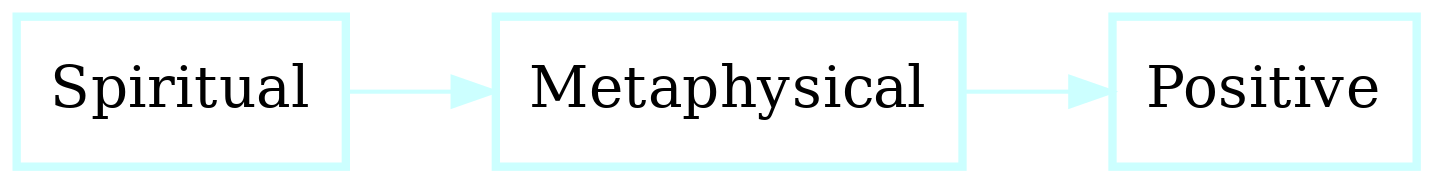
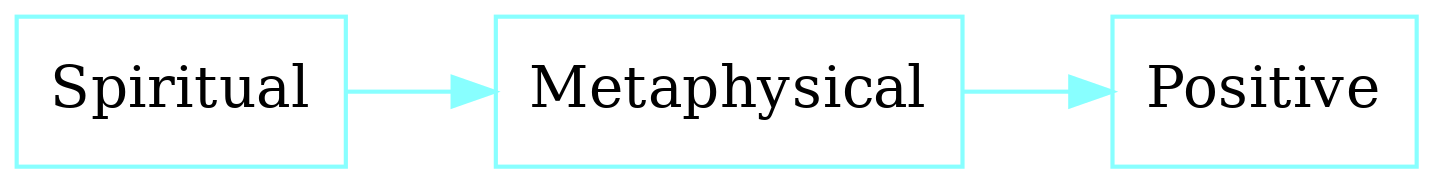
ok

Changed region(s): [[0.0, 0.0546, 1.0, 0.9563]]

diff --git a/ABSA.html b/ABSA.html
@@ -356,9 +356,38 @@
     0
    </sup>
    This is our evolutionary lineage:
-Evolutionary Lineage
-   <br/>
-   <img src="graphs/Evolutionary_Lineage.png" width="100%"/>
+   <sup>
+    1
+   </sup>
+   Evolutionary Lineage
+  </p>
+  <ul>
+   <li>
+    The Fundamental Particles, which are inert
+   </li>
+   <li>
+    LUCA, who begat the Prokaryota
+   </li>
+   <li>
+    Asgards, who engulfed bacteria
+   </li>
+   <li>
+    Eukarya, who protect their centers
+   </li>
+   <li>
+    Amorphea, who swim with tails
+   </li>
+   <li>
+    Animalia, who propagate in pairs
+   </li>
+   <li>
+    Humankind, who communicate clearly
+   </li>
+   <li>
+    The Son of Man, who will usher in the new age
+   </li>
+  </ul>
+  <p>
   </p>
   <h4>
    <a name="Migratory">
@@ -374,21 +403,15 @@ Evolutionary Lineage
   <ul>
    <li>
     300,000 years ago, humankind originated in Africa
-    <ul>
-     <li>
-      150,000 years ago, we expanded into Eurasia
-      <ul>
-       <li>
-        50,000 years ago, we expanded into Australia
-        <ul>
-         <li>
-          15,000 years ago, we expanded into America
-         </li>
-        </ul>
-       </li>
-      </ul>
-     </li>
-    </ul>
+   </li>
+   <li>
+    150,000 years ago, we expanded into Eurasia
+   </li>
+   <li>
+    50,000 years ago, we expanded into Australia
+   </li>
+   <li>
+    15,000 years ago, we expanded into America
    </li>
   </ul>
   Simplified migratory chart
@@ -415,9 +438,38 @@ Evolutionary Lineage
    </a>
   </h4>
   <p align="justify">
+   <sup>
+    0
+   </sup>
    This is our personal spiritual lineage:
-   <br/>
-   <img src="graphs/This_is_our_personal_spiritual_lineage:.png" width="100%"/>
+  </p>
+  <ul>
+   <li>
+    Abraham, who established the first covenant
+   </li>
+   <li>
+    David, who unified the people
+   </li>
+   <li>
+    Jesus, who established the second covenant
+   </li>
+   <li>
+    Paul, who established the church
+   </li>
+   <li>
+    Constantine, who unified the people
+   </li>
+   <li>
+    Thomas Aquinas, who unified the doctrine
+   </li>
+   <li>
+    Martin Luther, who refined the doctrine
+   </li>
+   <li>
+    Julian, who established the third covenant
+   </li>
+  </ul>
+  <p>
   </p>
   <h4>
    <a name="Ideological">

diff --git a/export.py b/export.py
@@ -27,7 +27,7 @@ def copyDictUnique(indict, modifier):
 import copy
 
 lineColor = '#00ffff'
-lineColor = '"#ccffff"'
+lineColor = '"#88ffff"'
 # "color": "black",
 # "color": "\"#262626\"",
     
@@ -37,6 +37,7 @@ m = fractal_book.FractalBook(
         "priority": 1000,
         "ignore": False,
         "type": "default",
+        "topology":"nested",
         "noPropagate": {},
         "font": {"color": "white"},
         "relationship": "descends",
@@ -55,7 +56,7 @@ m = fractal_book.FractalBook(
         "boxParams": {
             "rankdir": "TB",
             "shape": "box",
-            "penwidth": 2,
+            "penwidth": 1,
             "color": lineColor,
             "fontcolor": "black",
             # "fillcolor": "\"darkorchid4:grey10\"",

diff --git a/Book Of Julian/Lineage/Material/Migratory.py b/Book Of Julian/Lineage/Material/Migratory.py
@@ -1,6 +1,6 @@
 {
     "This is our migratory history, which is the basis of our racial theory": {
-	"meta": {"type": "list"},
+        "meta": {"type": "list", "topology":"flat"},
         "300,000 years ago, humankind originated in Africa": {
             "150,000 years ago, we expanded into Eurasia": {
                 "50,000 years ago, we expanded into Australia": {

diff --git a/Book Of Julian/Lineage/Material/Evolutionary.py b/Book Of Julian/Lineage/Material/Evolutionary.py
@@ -1,7 +1,7 @@
 {
     "This is our evolutionary lineage:": {},
     "Evolutionary Lineage": {
-        "meta": {"type": "lineage"},
+        "meta": {"type": "list", "topology":"flat"},
         "The Fundamental Particles, which are inert": {
             "LUCA, who begat the Prokaryota": {
                 "Asgards, who engulfed bacteria": {

diff --git a/Book Of Julian/Lineage/Spiritual/Personal.py b/Book Of Julian/Lineage/Spiritual/Personal.py
@@ -1,6 +1,6 @@
 {
     "This is our personal spiritual lineage:": {
-        "meta": {"type": "lineage"},
+        "meta": {"type": "list", "topology":"flat"},
         "Abraham, who established the first covenant": {
             "David, who unified the people": {
                 "Jesus, who established the second covenant": {

diff --git a/README.md b/README.md
@@ -73,21 +73,15 @@
 
 ### Evolutionary
 
-<sup>0</sup> This is our evolutionary lineage:
-Evolutionary Lineage
-
-![Evolutionary Lineage](/graphs/Evolutionary_Lineage.png?raw=true)
+<sup>0</sup> This is our evolutionary lineage:<sup>1</sup> Evolutionary Lineage
+- The Fundamental Particles, which are inert- LUCA, who begat the Prokaryota- Asgards, who engulfed bacteria- Eukarya, who protect their centers- Amorphea, who swim with tails- Animalia, who propagate in pairs- Humankind, who communicate clearly- The Son of Man, who will usher in the new age
 
 
 
 ### Migratory
 
 <sup>0</sup> This is our migratory history, which is the basis of our racial theory
-- 300,000 years ago, humankind originated in Africa
-  - 150,000 years ago, we expanded into Eurasia
-    - 50,000 years ago, we expanded into Australia
-      - 15,000 years ago, we expanded into America
-
+- 300,000 years ago, humankind originated in Africa- 150,000 years ago, we expanded into Eurasia- 50,000 years ago, we expanded into Australia- 15,000 years ago, we expanded into America
 
 
 Simplified migratory chart
@@ -102,10 +96,8 @@ Simplified migratory chart
 
 ### Personal
 
-
-This is our personal spiritual lineage:
-
-![This is our personal spiritual lineage:](/graphs/This_is_our_personal_spiritual_lineage:.png?raw=true)
+<sup>0</sup> This is our personal spiritual lineage:
+- Abraham, who established the first covenant- David, who unified the people- Jesus, who established the second covenant- Paul, who established the church- Constantine, who unified the people- Thomas Aquinas, who unified the doctrine- Martin Luther, who refined the doctrine- Julian, who established the third covenant
 
 
 
